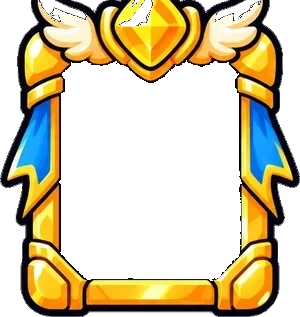
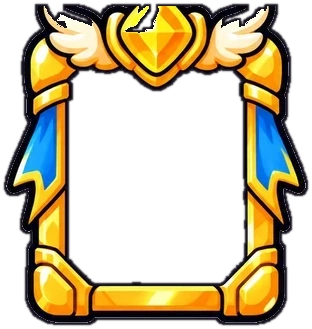
Shootingstar v12.9.7: clean card outlines, orb volleys, fewer drafts, tougher bosses
- Skill card frames get a uniform dark outline; outer glow and white
  fringe dropped (tools/outline_card_frames.py, frames padded 6px)
- Enemy spreading volleys (fans, rings, spirals, curtains, every
  mid-boss volley) are round orbs; single aimed shots stay long bars
- Fewer level-up drafts: house gems lose the 1.8x bonus (4 / wipe 8 /
  elite 8x3) and levels cost 60 + 16/level
- Mid-boss HP x9 (was 4.5), stage bosses x4.4 / duelist x6.0

diff --git a/lib/game/engine.dart b/lib/game/engine.dart
@@ -385,13 +385,12 @@ class GameEngine {
       xp = 0,
       xpNeeded = firstGrowthCost;
 
-  /// Gems needed per level (v12.9, user 2026-10-25: one or two gems opened
-  /// the cards and broke up the fight). An ordinary house gem is 7.2 and a
-  /// wiped formation drops 12, so the first draft takes about five gems and
-  /// later ones roughly half again as many as before.
-  static const firstGrowthCost = 45.0;
+  /// Gems needed per level (v12.9/v12.9.7, user 2026-10-25: drafts broke
+  /// up the fight). An ordinary house gem is 4 and a wiped formation drops 8,
+  /// so the first draft takes about ten gems.
+  static const firstGrowthCost = 60.0;
   static double growthCost(int level) =>
-      45 + level * 14 + math.pow(math.max(0, level - 8), 2) * 1.5;
+      60 + level * 16 + math.pow(math.max(0, level - 8), 2) * 1.5;
   int level = 1, kills = 0;
   double combatTime = 0, laserLife = 0, _laser = 0;
   double? firstEvolutionAt;
@@ -1298,9 +1297,11 @@ class GameEngine {
                     elapsed / duration,
                     armored: e.kind == 2,
                   ) *
-                  (screenMode ? 1.8 : 1),
-              if (wiped) 12,
-              if (e.elite) ...[10, 10, 10],
+                  // v12.9.7 (user 2026-10-25: drafts still too frequent):
+                  // house gems no longer get the old 1.8x bonus
+                  1,
+              if (wiped) 8,
+              if (e.elite) ...[8, 8, 8],
             ];
       if (screenMode && e.kind != 3) houseDrop(e, wiped);
       for (final value in rewards) {

diff --git a/lib/ui/skill_cards.dart b/lib/ui/skill_cards.dart
@@ -13,15 +13,16 @@ abstract final class SkillCardArt {
   static String frame(int tier) => '${root}frame_${tier.clamp(1, 6)}.webp';
 
   /// Each frame's size (px) and its inner window (fractions of that size),
-  /// measured on the cut sheet. Windows line up across tiers; the richer
+  /// measured on the cut sheet (v12.9.7: padded 6px for the dark outline,
+  /// tools/outline_card_frames.py). Windows line up across tiers; the richer
   /// ornaments of higher tiers spill outside them.
   static const frames = [
-    (Size(300, 367), Rect.fromLTRB(.131, .192, .866, .886)),
-    (Size(300, 366), Rect.fromLTRB(.137, .216, .866, .888)),
-    (Size(300, 384), Rect.fromLTRB(.164, .214, .831, .798)),
-    (Size(300, 331), Rect.fromLTRB(.220, .225, .780, .879)),
-    (Size(300, 317), Rect.fromLTRB(.200, .256, .800, .881)),
-    (Size(300, 334), Rect.fromLTRB(.193, .271, .805, .848)),
+    (Size(312, 379), Rect.fromLTRB(.145, .202, .852, .874)),
+    (Size(312, 378), Rect.fromLTRB(.151, .225, .852, .876)),
+    (Size(312, 396), Rect.fromLTRB(.177, .223, .818, .789)),
+    (Size(312, 343), Rect.fromLTRB(.231, .235, .769, .866)),
+    (Size(312, 329), Rect.fromLTRB(.212, .265, .788, .867)),
+    (Size(312, 346), Rect.fromLTRB(.205, .279, .793, .836)),
   ];
 
   static const effects = [

diff --git a/test/battle_resolution_test.dart b/test/battle_resolution_test.dart
@@ -188,9 +188,10 @@ void main() {
   test('magnet arrivals continue during final destruction and count in result level', () {
     final g = arena();
     g.xpNeeded = 10;
-    // 48 gems of 2: level 2 at 10, level 3 at growthCost(2), rest banked
+    // gems of 2: level 2 at 10, level 3 at growthCost(2), 10 XP banked
+    final gems = ((10 + GameEngine.growthCost(2) + 10) / 2).ceil();
     g.crystals.addAll(
-      List.generate(48, (i) => g.position + Offset(200, -100.0 - i)),
+      List.generate(gems, (i) => g.position + Offset(200, -100.0 - i)),
     );
     g.supplies.add(Supply(g.position, 1));
     g.update(.001);
@@ -200,7 +201,7 @@ void main() {
     expect(g.finished, true);
     expect(g.absorbingCrystals, isEmpty);
     expect(g.level, 3);
-    expect(g.xp, closeTo(96 - 10 - GameEngine.growthCost(2), 1e-9));
+    expect(g.xp, closeTo(gems * 2 - 10 - GameEngine.growthCost(2), 1e-9));
     expect(g.choices, isEmpty);
   });
 }

diff --git a/web/index.html b/web/index.html
@@ -37,7 +37,7 @@
 <body>
   <div id="art-loading" role="img" aria-label="슈팅스타" style="position:fixed;inset:0;background:#f08a3c url(splash.webp) center/cover no-repeat;color:#fff;display:flex;flex-direction:column;align-items:center;justify-content:flex-end;font:bold 18px sans-serif;text-shadow:0 2px 4px rgba(40,16,40,.8)">
     <p id="loading-message" style="margin:0 0 max(64px,calc(env(safe-area-inset-bottom) + 52px));padding:10px 22px;border-radius:999px;background:rgba(40,20,48,.55)">출격을 준비하는 중…</p>
-    <p id="loading-version" style="position:absolute;bottom:max(12px,env(safe-area-inset-bottom));margin:0;font-size:14px"><!-- build-version:start -->v12.9.6<!-- build-version:end --></p>
+    <p id="loading-version" style="position:absolute;bottom:max(12px,env(safe-area-inset-bottom));margin:0;font-size:14px"><!-- build-version:start -->v12.9.7<!-- build-version:end --></p>
   </div>
   <script>
     try {

diff --git a/lib/game/house_waves.dart b/lib/game/house_waves.dart
@@ -360,7 +360,8 @@ extension HouseWaves on GameEngine {
         foe
           ..elite = true
           ..radius = 30
-          ..hp *= 4.5
+          // v12.9.7 (user 2026-10-25: mid-bosses died too easily)
+          ..hp *= 9
           ..maxHp = foe.hp
           ..eliteTimer = 1.2;
         pickupNotice = '중간 보스 등장!';
@@ -432,7 +433,7 @@ extension HouseWaves on GameEngine {
           _direction(angle) * speed * pace,
           7 * threat,
           4,
-          weapon: 'enemy-bullet',
+          weapon: 'enemy-orb', // every mid-boss volley spreads
           life: 6,
           radius: hostileBulletRadius,
         ),

diff --git a/lib/game/battle_painter.dart b/lib/game/battle_painter.dart
@@ -882,6 +882,18 @@ class BattlePainter extends CustomPainter {
         : shot.position;
     switch (shot.kind) {
       case 4:
+        // v12.9.7 (user 2026-10-25): spreading volleys are round orbs,
+        // aimed shots stay long bars
+        if (shot.weapon == 'enemy-orb' || shot.weapon == 'boss-volley') {
+          GlowShots.paint(
+            canvas,
+            GlowShape.orb,
+            at,
+            math.max(14, shot.radius * 3.6),
+            GlowShots.pink,
+          );
+          return true;
+        }
         GlowShots.paint(
           canvas,
           GlowShape.bean,

diff --git a/lib/game/house_bosses.dart b/lib/game/house_bosses.dart
@@ -40,7 +40,8 @@ extension HouseBosses on GameEngine {
     // later houses field much tougher bosses (weapons now grow a lot)
     b.hp = b.maxHp =
         b.maxHp *
-        (houseBossKind == HouseBossKind.duelist ? 3.4 : 2.2) *
+        // v12.9.7 (user 2026-10-25: bosses died too easily): about 2x
+        (houseBossKind == HouseBossKind.duelist ? 6.0 : 4.4) *
         (1 + stage.sector * .12);
     _hbFire = 1.6;
     _hbSpin = 0;

diff --git a/lib/game/enemy_behaviors.dart b/lib/game/enemy_behaviors.dart
@@ -203,7 +203,8 @@ extension EnemyBehaviors on GameEngine {
               _direction(angle + (i - (count - 1) / 2) * .18) * 135,
               6,
               4,
-              weapon: 'enemy-bullet',
+              // a spread (splitter/weaver) shows as orbs, a single shot a bar
+              weapon: count > 1 ? 'enemy-orb' : 'enemy-bullet',
               life: 4,
               radius: hostileBulletRadius,
             ),

diff --git a/lib/app_version.dart b/lib/app_version.dart
@@ -1,6 +1,6 @@
 // Generated by tools/sync_version.py from pubspec.yaml. Do not edit.
 abstract final class AppVersion {
-  static const name = '12.9.6';
-  static const build = '120';
-  static const label = 'v12.9.6';
+  static const name = '12.9.7';
+  static const build = '121';
+  static const label = 'v12.9.7';
 }

diff --git a/tools/outline_card_frames.py b/tools/outline_card_frames.py
@@ -1,0 +1,64 @@
+"""Give every skill card frame a clean dark outline (v12.9.7, user
+2026-10-25: a light edge still showed outside the frames; the edge must end
+in a black line of the outline's thickness).
+
+The frames were cut from a white background, so frames 1/2 lost their dark
+outer line and frame 6 kept a soft purple glow outside it. Here the alpha is
+made crisp (soft glow and fringe dropped), stray specks removed, and a dark
+outline drawn around the shape - thick where the art has none, thin where it
+already has one. Each frame is padded by PAD px; lib/ui/skill_cards.dart
+holds the new sizes and inner windows (printed by this script).
+
+Run: python tools/outline_card_frames.py   (sources: .local/cards_frames_backup)
+"""
+import pathlib
+
+from PIL import Image, ImageFilter
+
+ROOT = pathlib.Path(__file__).resolve().parents[1]
+ART = ROOT / 'assets/art/cards_v13'
+BACKUP = ROOT / '.local/cards_frames_backup'
+OUTLINE = (22, 18, 30)
+PAD = 6
+# outline radius (px at 300 wide): frames without their own dark line get
+# the full thickness, frames that have one only a thin clean-up edge
+RADIUS = {1: 5, 2: 5, 3: 2, 4: 2, 5: 2, 6: 4}
+
+
+def crisp_mask(im: Image.Image) -> Image.Image:
+    alpha = im.getchannel('A').point(lambda a: 255 if a >= 150 else 0)
+    # drop specks: keep pixels whose 9x9 neighbourhood is mostly solid
+    solid = alpha.filter(ImageFilter.MinFilter(3)).filter(ImageFilter.MaxFilter(3))
+    return solid
+
+
+def outline(t: int) -> None:
+    src = Image.open(BACKUP / f'frame_{t}.webp').convert('RGBA')
+    w, h = src.size
+    px = src.load()
+    for y in range(h):
+        for x in range(w):
+            r_, g, b, a = px[x, y]
+            # the light halo left from the white background becomes outline
+            if 0 < a < 250 and min(r_, g, b) > 120:
+                px[x, y] = (*OUTLINE, a)
+    im = Image.new('RGBA', (w + 2 * PAD, h + 2 * PAD), (0, 0, 0, 0))
+    im.paste(src, (PAD, PAD))
+    mask = crisp_mask(im)
+    art = im.copy()
+    art.putalpha(mask)
+    r = RADIUS[t]
+    ring = mask.filter(ImageFilter.MaxFilter(2 * r + 1)).filter(
+        ImageFilter.GaussianBlur(.8))
+    out = Image.new('RGBA', im.size, (*OUTLINE, 0))
+    out.putalpha(ring)
+    # soften the art's own edge a touch so it blends into the outline
+    out.alpha_composite(art)
+    out.save(ART / f'frame_{t}.webp', 'WEBP', quality=94, alpha_quality=100,
+             method=6)
+    print(t, out.size)
+
+
+if __name__ == '__main__':
+    for t in range(1, 7):
+        outline(t)

diff --git a/docs/GAME_DIRECTION.md b/docs/GAME_DIRECTION.md
@@ -1,3 +1,5 @@
+2026-10-25 v12.9.7 사용자 요청: 스킬 카드 액자 6종에 균일한 검은 외곽선(바깥 광채·흰 잔여물 제거, `tools/outline_card_frames.py`, 6px 여백). 적의 퍼뜨리는 탄(부채꼴·원형·나선·탄막, 중간 보스 전부)은 둥근 구체, 조준해 쏘는 한 발은 긴 막대(탄 weapon `enemy-orb`/`boss-volley` = 구체). 레벨업: 집 보석 1.8배 보너스 폐지(일반 4·편대 전멸 8·정예 8×3), 필요 경험치 첫 레벨 60·이후 60+레벨×16. 중간 보스 체력 일반 적×9(기존 4.5), 최종 보스 ×4.4(결투형 ×6.0, 기존 2.2/3.4).
+
 2026-10-25 v12.9.6 사용자 요청: 전투의 옛 '띠' 그림(옛 이펙트 묶음 6·8·9·10·11·12·13번 고리·보호막·불·얼음)을 모두 코드로 그리는 벡터 효과로 바꿨다(`BattlePainter._vectorAura`: 안쪽 빛 번짐·흐린 광채 가장자리·선명한 선·회전 하이라이트). 보급품 둘레의 가는 고리와 막대 표시는 지우고 같은 벡터 광채로 통일. 중간 보스 보물은 새 황금 발바닥 상자(`icons_v12/item_elite.webp`, 원래 비율로 그림). 일시정지 버튼 아이콘은 흰색 단순 그림(`ui_v13/icon_play·stats·settings·home`).
 
 2026-10-25 v12.9.5 사용자 요청: 고양이 기체 아래에 코드로 그리던 하늘색 분사 줄기(`CombatVfx._jet`)를 지우고 그림 불꽃만 남겼다. 전진 불꽃은 최대 2.3배, 이동속도의 0.8배만 앞으로 가도 최대가 되게 반응을 키웠다(후진 0.7배는 유지).
